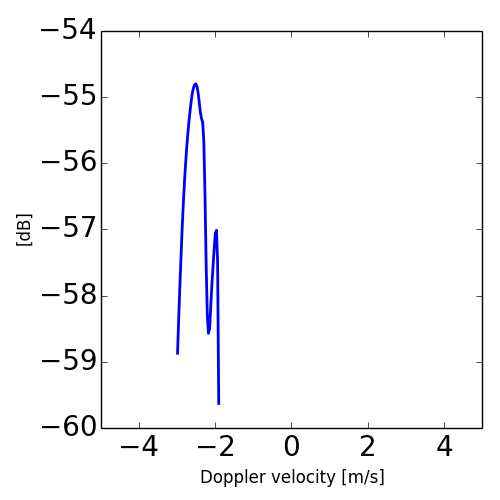
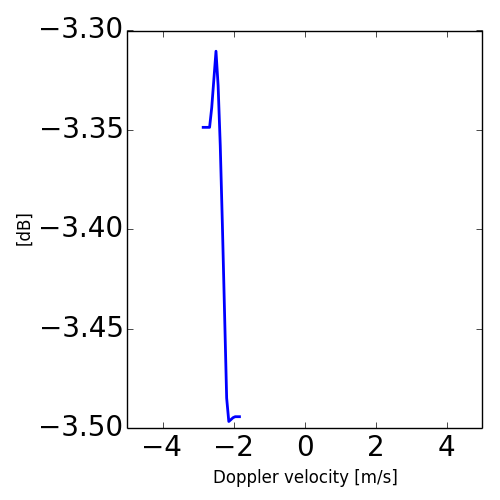
adding files

diff --git a/examples/wrapradarfilter/python/calc_hr_spectrum.py b/examples/wrapradarfilter/python/calc_hr_spectrum.py
@@ -5,37 +5,35 @@ import numpy as np
 from scipy.interpolate import interp1d
 from scipy.stats import norm
 
+#pr: percentile rank
+
 def special_interpolate_via_integral(
-        lbound, ubound, values, newx, interpolation_kind = 'cubic'
+        pr_lbound, pr_ubound, integrated_values,
+        new_pr_lbound, new_pr_ubound,
+        interpolation_kind = 'linear'
         ):
 
     #define interpolation points for the integral function
-    int_x = np.hstack((lbound,ubound[-1]))
-    tmp = np.hstack( (0., (ubound - lbound) * values))
+    pr = np.hstack((0., pr_lbound[0], pr_ubound))
+    tmp = np.hstack( (0., 0., integrated_values) )
     tmp = np.nan_to_num(tmp)
-    int_y = np.cumsum(tmp)
+    cdf = np.cumsum(tmp)
 
-    nonans = False == (np.isnan(int_y) | np.isinf(int_y))
-    int_x = np.compress(nonans, int_x)
-    int_y = np.compress(nonans, int_y)
-
-    if len(int_y) < 2:
-        return newx + np.nan
+    if len(cdf) < 2:
+        return new_pr_lbound + np.nan
     else:
-        int_f = interp1d(int_x, int_y, kind=interpolation_kind, bounds_error=False)
-        delta = 1.e-10
-        f = lambda x: (int_f(x + delta/2.) - int_f(x - delta/2.)) / delta
+        int_cdf = interp1d(pr, cdf, kind=interpolation_kind, bounds_error=False)
         
-        newy = np.array(f(newx))
-        newy = np.where(np.isnan(newy), 0., newy)   
-        return newy
+        new_integrated_values = np.array(int_cdf(new_pr_ubound) - int_cdf(new_pr_lbound))
+        new_integrated_values = np.where(np.isnan(new_integrated_values), 0., new_integrated_values)
+        return new_integrated_values
 
 def dBinv(x):
     y = 10. ** (x / 10.)
     if np.isscalar(x):
-        return 0. if (y == _FillValueminINF) else y
+        return 0. if (x == _FillValueminINF) else y
     else:
-        return np.where(y == _FillValueminINF, 0., y)
+        return np.where(x == _FillValueminINF, 0., y)
 def dB(x):
     y = 10. * np.log10(x)
     if np.isscalar(x):
@@ -43,17 +41,40 @@ def dB(x):
     else:
         return np.where(np.isnan(y), _FillValueminINF, y)
 
-def ao_to_recalc(ao, recalc = None,  interpolation_kind = 'cubic'):
+def pnans(x):
+    if np.isscalar(x):
+        return np.nan if (x == _FillValueminINF) else x
+    else:
+        return np.where(x == _FillValueminINF, np.nan, x)
+    
 
+def update_Zdr_Ldr(ao):
+    ao['specific_dBZdr'] = ao['Doppler_spectrum_dBZ_hh'] - ao['Doppler_spectrum_dBZ_vv']
+    ao['specific_dBLdr'] = ao['Doppler_spectrum_dBZ_hv'] - ao['Doppler_spectrum_dBZ_vv']
+    
+    crit = (ao['Doppler_spectrum_dBZ_hh'] == _FillValueminINF) | (ao['Doppler_spectrum_dBZ_vv'] == _FillValueminINF)
+    ao['specific_dBZdr'] = np.where(crit, np.nan, ao['specific_dBZdr'])
+    
+    crit = (ao['Doppler_spectrum_dBZ_hv'] == _FillValueminINF) | (ao['Doppler_spectrum_dBZ_vv'] == _FillValueminINF)    
+    ao['specific_dBLdr'] = np.where(crit, np.nan, ao['specific_dBLdr'])
+
+
+def ao_to_recalc(ao, recalc = None,  interpolation_kind = 'linear'):
 
     if recalc == None:
         n = 100
         #do a recalculation with a different resolution
         recalc = {}
         recalc['spectrum_velocity_center'] = np.zeros([ao['Doppler_spectrum_dBZ_hh'].shape[0], n]) + np.nan
+        recalc['spectrum_velocity_lbound'] = np.zeros([ao['Doppler_spectrum_dBZ_hh'].shape[0], n]) + np.nan
+        recalc['spectrum_velocity_ubound'] = np.zeros([ao['Doppler_spectrum_dBZ_hh'].shape[0], n]) + np.nan
         for i in range(ao['Doppler_spectrum_dBZ_hh'].shape[0]):
             recalc['spectrum_velocity_center'][i,:] = np.linspace(np.min(ao['spectrum_velocity_lbound'][i,0]), np.max(ao['spectrum_velocity_ubound'][i,-1]), n)
 
+            d = recalc['spectrum_velocity_center'][i,1] - recalc['spectrum_velocity_center'][i,0]
+            recalc['spectrum_velocity_lbound'][i,:] = recalc['spectrum_velocity_center'][i,:] - d/2.
+            recalc['spectrum_velocity_ubound'][i,:] = recalc['spectrum_velocity_center'][i,:] + d/2.
+        
     for myvar in [
         'Doppler_spectrum_dBZ_hh',
         'Doppler_spectrum_dBZ_hv',
@@ -75,42 +96,73 @@ def ao_to_recalc(ao, recalc = None,  interpolation_kind = 'cubic'):
         ]:
         for i in range(ao['Doppler_spectrum_dBZ_hh'].shape[0]):
             if myvar in ao.keys():
+                tmp = {}
+                tmp['integrated_dBinv_'+myvar] = (
+                (ao['spectrum_velocity_ubound'][i,:] - ao['spectrum_velocity_lbound'][i,:]) *
+                dBinv(ao[myvar][i,:])
+                )
+                                
                 #function to translate x, to ppt
                 myf = lambda x: norm.cdf(x, ao['Doppler_velocity_hh_ms'][i], ao['Doppler_spectral_width_hh_ms'][i])             
                 recalc[myvar][i,:] = dB(special_interpolate_via_integral(
                                 myf(ao['spectrum_velocity_lbound'][i,:]),
                                 myf(ao['spectrum_velocity_ubound'][i,:]),
-                                dBinv(ao[myvar][i,:]),
-                                myf(recalc['spectrum_velocity_center'][i,:]), interpolation_kind))
+                                tmp['integrated_dBinv_'+myvar],
+                                myf(recalc['spectrum_velocity_lbound'][i,:]),
+                                myf(recalc['spectrum_velocity_ubound'][i,:]),
+                                interpolation_kind))
+                                
+                recalc[myvar][i,:] = recalc[myvar][i,:] * (recalc['spectrum_velocity_ubound'][i,:] - recalc['spectrum_velocity_lbound'][i,:])
                 #ignore low reflection
                 recalc[myvar][i,:] = np.where(recalc[myvar][i,:] > (np.nanmax(recalc[myvar][i,:]) - 25.), recalc[myvar][i,:], _FillValueminINF)
 
-    recalc['specific_dBZdr'] = recalc['Doppler_spectrum_dBZ_hh'] - recalc['Doppler_spectrum_dBZ_vv']
-    recalc['specific_dBLdr'] = recalc['Doppler_spectrum_dBZ_hv'] - recalc['Doppler_spectrum_dBZ_vv']
-    
-    crit = (recalc['Doppler_spectrum_dBZ_hh'] == _FillValueminINF) | (recalc['Doppler_spectrum_dBZ_vv'] == _FillValueminINF)
-    recalc['specific_dBZdr'] = np.where(crit, np.nan, recalc['specific_dBZdr'])
-    
-    crit = (recalc['Doppler_spectrum_dBZ_hv'] == _FillValueminINF) | (recalc['Doppler_spectrum_dBZ_vv'] == _FillValueminINF)    
-    recalc['specific_dBLdr'] = np.where(crit, np.nan, recalc['specific_dBLdr'])
+                del tmp['integrated_dBinv_'+myvar]
+           
+    update_Zdr_Ldr(recalc)
     
     #~ 
-    #~ for i in range(ao['Doppler_spectrum_dBZ_hh'].shape[0]):          
-        #~ recalc['specific_rho_co'][i,:] = special_interpolate_via_integral(
-                        #~ ao['spectrum_velocity_lbound'][i,:],
-                        #~ ao['spectrum_velocity_ubound'][i,:],
-                        #~ ao['specific_rho_co'][i,:] * np.sqrt(dBinv(ao['Doppler_spectrum_dBZ_hh'][i,:]) * dBinv(ao['Doppler_spectrum_dBZ_vv'][i,:])),
-                        #~ recalc['spectrum_velocity_center'][i,:], interpolation_kind) / np.sqrt(dBinv(recalc['Doppler_spectrum_dBZ_hh'][i,:]) * dBinv(recalc['Doppler_spectrum_dBZ_vv'][i,:]))
-        #~ recalc['specific_rho_cxh'][i,:] = special_interpolate_via_integral(
-                        #~ ao['spectrum_velocity_lbound'][i,:],
-                        #~ ao['spectrum_velocity_ubound'][i,:],
-                        #~ ao['specific_rho_cxh'][i,:] * np.sqrt(dBinv(ao['Doppler_spectrum_dBZ_hh'][i,:]) * dBinv(ao['Doppler_spectrum_dBZ_hv'][i,:])),
-                        #~ recalc['spectrum_velocity_center'][i,:], interpolation_kind) /  np.sqrt(dBinv(recalc['Doppler_spectrum_dBZ_hh'][i,:]) * dBinv(recalc['Doppler_spectrum_dBZ_hv'][i,:]))
-        #~ recalc['specific_rho_cxv'][i,:] = special_interpolate_via_integral(
-                        #~ ao['spectrum_velocity_lbound'][i,:],
-                        #~ ao['spectrum_velocity_ubound'][i,:],
-                        #~ ao['specific_rho_cxv'][i,:] * np.sqrt(dBinv(ao['Doppler_spectrum_dBZ_vv'][i,:]) * dBinv(ao['Doppler_spectrum_dBZ_vh'][i,:])),
-                        #~ recalc['spectrum_velocity_center'][i,:], interpolation_kind) /  np.sqrt(dBinv(recalc['Doppler_spectrum_dBZ_vv'][i,:]) * dBinv(recalc['Doppler_spectrum_dBZ_vh'][i,:]))
-        #~ 
-    #~ 
+    for i in range(ao['Doppler_spectrum_dBZ_hh'].shape[0]):          
+        #function to translate x, to ppt
+        myf = lambda x: norm.cdf(x, ao['Doppler_velocity_hh_ms'][i], ao['Doppler_spectral_width_hh_ms'][i])             
+
+        if 'specific_rho_co' in ao.keys():
+            x = np.hstack([0., myf(ao['spectrum_velocity_center'][i,:]), 1.])
+            z = np.hstack([ao['specific_rho_co'][i,0], ao['specific_rho_co'][i,:], ao['specific_rho_co'][i,-1]])
+            int_ = interp1d(x, z, kind=interpolation_kind, bounds_error=False)
+            recalc['specific_rho_co'][i,:] = int_(myf(recalc['spectrum_velocity_center'][i,:]))
+            del int_
+        if 'specific_rho_cxh' in ao.keys():
+            x = np.hstack([0., myf(ao['spectrum_velocity_center'][i,:]), 1.])
+            z = np.hstack([ao['specific_rho_cxh'][i,0], ao['specific_rho_cxh'][i,:], ao['specific_rho_cxh'][i,-1]])
+            int_ = interp1d(x, z, kind=interpolation_kind, bounds_error=False)
+            recalc['specific_rho_cxh'][i,:] = int_(myf(recalc['spectrum_velocity_center'][i,:]))
+            del int_
+        if 'specific_rho_cxv' in ao.keys():
+            x = np.hstack([0., myf(ao['spectrum_velocity_center'][i,:]), 1.])
+            z = np.hstack([ao['specific_rho_cxv'][i,0], ao['specific_rho_cxv'][i,:], ao['specific_rho_cxv'][i,-1]])
+            int_ = interp1d(x, z, kind=interpolation_kind, bounds_error=False)
+            recalc['specific_rho_cxv'][i,:] = int_(myf(recalc['spectrum_velocity_center'][i,:]))
+            del int_
+            
+
+
+        
     return recalc
+
+
+
+def smooth_spectra(ao, window_len=5):
+    for myvar in [
+        'Doppler_spectrum_dBZ_hh',
+        'Doppler_spectrum_dBZ_hv',
+        'Doppler_spectrum_dBZ_vh',
+        'Doppler_spectrum_dBZ_vv'
+        ]:
+        for i in range(ao['Doppler_spectrum_dBZ_hh'].shape[0]):
+            if myvar in ao.keys():
+                z = ao[myvar][i,:]            
+                z = pnans(z)
+                w = np.ones(window_len)
+                ao[myvar][i,:] = np.convolve(w/w.sum(), z,mode='same')
+                
+    update_Zdr_Ldr(ao)                

diff --git a/examples/wrapradarfilter/python/fun_plot_spectra.py b/examples/wrapradarfilter/python/fun_plot_spectra.py
@@ -122,8 +122,13 @@ def plot_spectrum(ao_name, fname, opts = {}):
     ao = additional_output.ao_dct(ao_name)
 
     recalc = {}
-    recalc['spectrum_velocity_center'] = np.repeat( [np.linspace(-15.,15., 1000)], len(ao['azel_r1_m']), axis=0)
+    recalc['spectrum_velocity_center'] = np.repeat( [np.linspace(-15.,15., 500)], len(ao['azel_r1_m']), axis=0)
+    d = recalc['spectrum_velocity_center'][0,1] - recalc['spectrum_velocity_center'][0,0]
+    recalc['spectrum_velocity_ubound'] = recalc['spectrum_velocity_center'] + d/2.
+    recalc['spectrum_velocity_lbound'] = recalc['spectrum_velocity_center'] - d/2.
+    
     recalc = calc_hr_spectrum.ao_to_recalc(ao, recalc)
+    calc_hr_spectrum.smooth_spectra(recalc)
 
 
     for plot in [
@@ -141,7 +146,7 @@ def plot_spectrum(ao_name, fname, opts = {}):
         if plot in recalc.keys():
             fig = plt.figure(figsize=(5,5))
             ax=plt.subplot(111)
-                         
+                     
             if ('title' in opts.keys()):
                 ax.set_title(opts['title'])
             

diff --git a/examples/wrapradarfilter/python/plot_spectra.py b/examples/wrapradarfilter/python/plot_spectra.py
@@ -148,6 +148,7 @@ if True:
         else:
             ao = additional_output.ao_dct(observations['additional_output_filename'])
 
+        #fun_plot_spectra.plot_spectrum(observations['additional_output_filename'], 'spectra_plots/spectra_')
         fun_plot_spectra.plot_spectrum(observations['additional_output_filename'], 'spectra_plots/spectra_')
 
 
